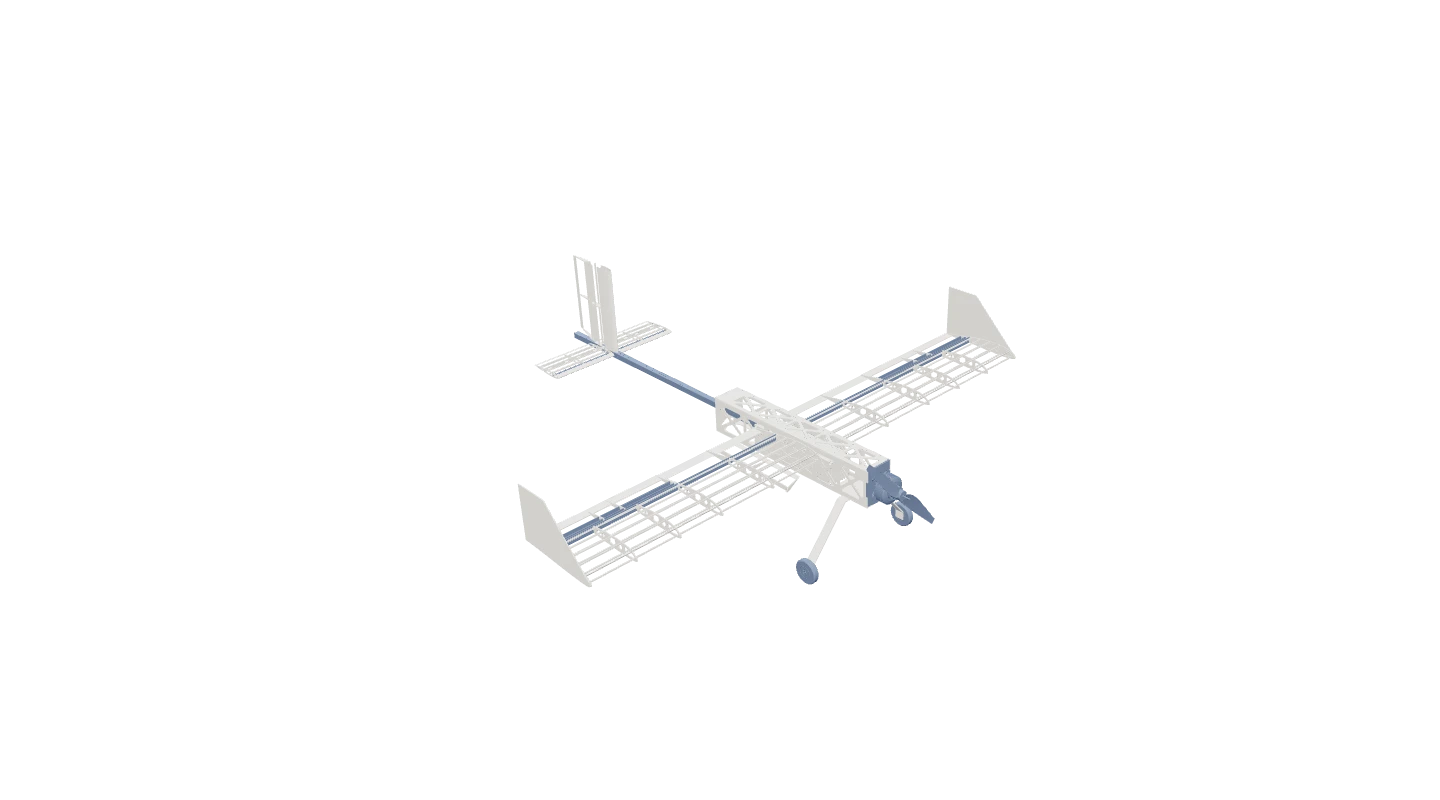
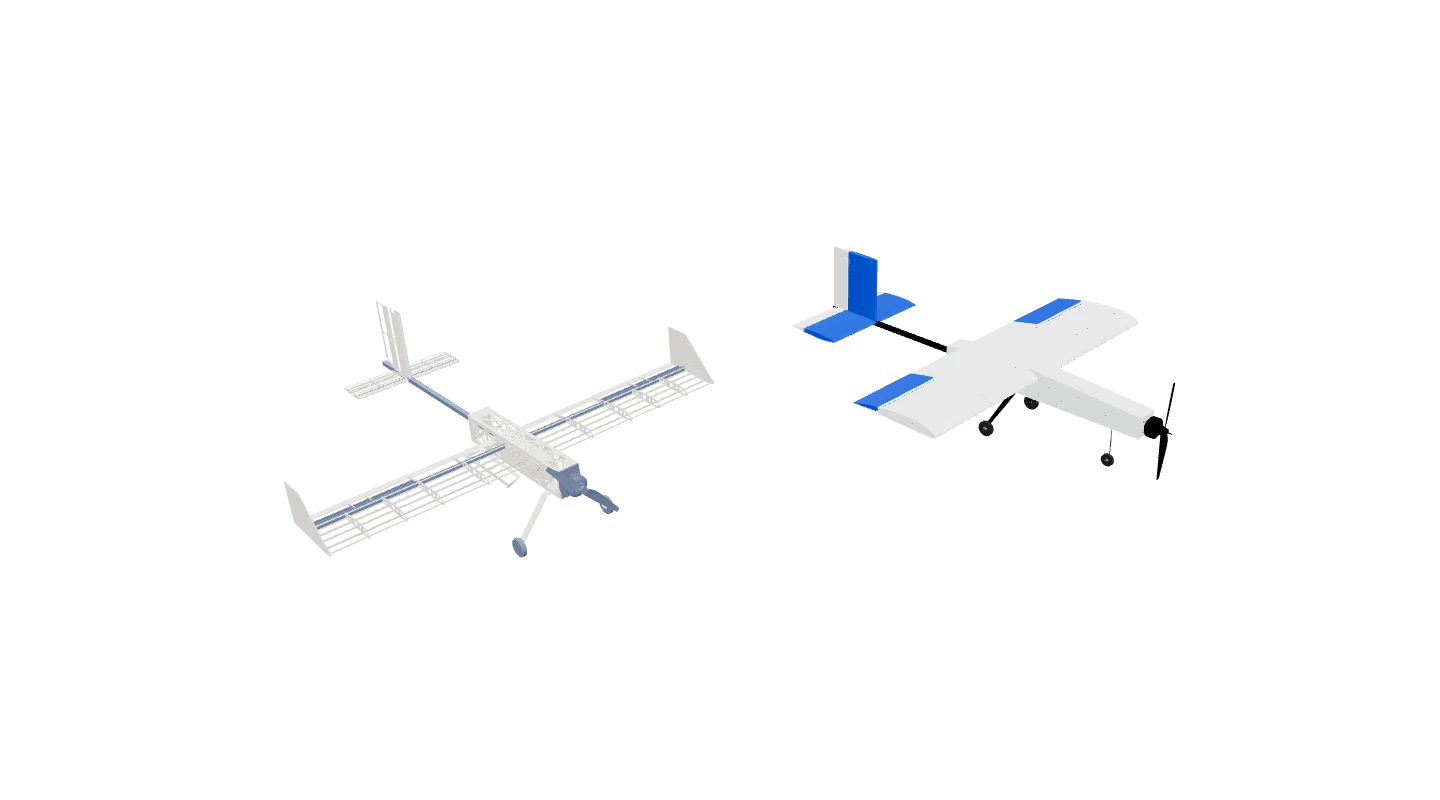
Coordinate both aircraft entrances and qualify CAD fit evidence

Changed region(s): [[0.1875, 0.3125, 0.8125, 0.7188], [0.25, 0.375, 0.3125, 0.5]]

diff --git a/assets/v2-skylabs-fleet.js b/assets/v2-skylabs-fleet.js
@@ -5,9 +5,9 @@
  const stage=root.querySelector('.fleet-stage'),track=root.querySelector('.fleet-track'),canvas=root.querySelector('canvas'),status=root.querySelector('.fleet-status');
  const title=root.querySelector('[data-fleet-title]'),caption=root.querySelector('[data-fleet-caption]'),bar=root.querySelector('.fleet-progress');
  const reduced=matchMedia('(prefers-reduced-motion: reduce)');
- let renderer,scene,camera,plane,mechanism,sensor,line,frame=0,loading=false,ready=false,active=false,failed=false,progress=0;
+ let renderer,scene,camera,plane,trainer,mechanism,sensor,line,frame=0,loading=false,ready=false,active=false,failed=false,progress=0;
  const clamp=x=>Math.max(0,Math.min(1,x)),smooth=x=>{x=clamp(x);return x*x*(3-2*x);};
- function staticCaption(){title.textContent='01 / Competition airframe';caption.textContent='Taildragger configuration · supplied CAD';bar.style.transform='scaleX(0)';}
+ function staticCaption(){title.textContent='01 / Trainer + competition';caption.textContent='Trainer and competition taildragger · source assemblies';bar.style.transform='scaleX(0)';}
  const allowed=()=>!reduced.matches&&!navigator.connection?.saveData&&innerHeight>=560;
  const script=(url,test)=>new Promise((resolve,reject)=>{if(test())return resolve();let el=[...document.scripts].find(s=>new URL(s.src,location.href).pathname===url);if(!el){el=document.createElement('script');el.src=url;document.head.append(el);}el.addEventListener('load',resolve,{once:true});el.addEventListener('error',reject,{once:true});});
  async function asset(slug){
@@ -28,9 +28,10 @@
   if(!ready)return;progress=clamp(value);const T=THREE,w=stage.clientWidth,h=stage.clientHeight,mobile=w<680;
   renderer.setPixelRatio(Math.min(devicePixelRatio,1.5));if(canvas.width!==Math.round(w*renderer.getPixelRatio())||canvas.height!==Math.round(h*renderer.getPixelRatio()))renderer.setSize(w,h,false);
   camera.aspect=w/h;camera.position.set(mobile?2.3:2.1,1.6,mobile?3.3:2.7);camera.lookAt(0,0,0);camera.updateProjectionMatrix();
-  const arrival=smooth(progress/.22),inspect=smooth((progress-.34)/.25),deploy=smooth((progress-.65)/.35);
-  plane.position.set((1-arrival)*-1.8-inspect*2.8,(1-arrival)*.55,0);plane.rotation.set(.07,-.18+(1-arrival)*.2,(1-arrival)*-.18);plane.scale.setScalar(mobile?.68:.95);plane.visible=inspect<.995;
-  mechanism.position.set((1-inspect)*3,0,0);mechanism.rotation.set(.02,-.25,.12);mechanism.scale.setScalar(mobile?3.1:4.3);mechanism.visible=inspect>.005;
+  const arrival=smooth((progress-.03)/.23),trainerArrival=smooth(progress/.23),inspect=smooth((progress-.38)/.23),deploy=smooth((progress-.65)/.35);
+  plane.position.set((mobile?0:-.65)+(1-arrival)*-2.2-inspect*2.8,(mobile?-.38:-.08)+(1-arrival)*.55,mobile?0:.45);plane.rotation.set(.07,-.18+(1-arrival)*.2,(1-arrival)*-.18);plane.scale.setScalar(mobile?.57:.75);plane.visible=inspect<.995;
+  trainer.position.set((mobile?0:.65)+(1-trainerArrival)*-2.2+inspect*3,(mobile?.48:.15)+(1-trainerArrival)*.55,mobile?0:-.5);trainer.rotation.set(.07,-.18+(1-trainerArrival)*.2,(1-trainerArrival)*-.18);trainer.scale.setScalar(mobile?.50:.68);trainer.visible=inspect<.995;
+  mechanism.position.set(0,-(1-inspect)*1.0,0);mechanism.rotation.set(.02,-.25,.12);mechanism.scale.setScalar((mobile?3.1:4.3)*(.5+inspect*.5));mechanism.visible=inspect>.02;
   // Sensor-only separation illustrates the requested deployment direction. No
   // joints, actuator stroke or installation transform were supplied in STEP.
   sensor.position.copy(sensor.userData.rest);sensor.position.z-=deploy*.16;
@@ -40,8 +41,8 @@
   points.push(new T.Vector3(-.05,-.045,.07),new T.Vector3(0,-.045,.05-deploy*.16));
   line.geometry.dispose();line.geometry=new T.BufferGeometry().setFromPoints(points);line.visible=deploy>0;
   renderer.render(scene,camera);bar.style.transform='scaleX('+progress+')';
-  title.textContent=progress<.45?'01 / Competition airframe':progress<.65?'02 / Sensor carriage':'03 / Routing study';
-  caption.textContent=progress<.45?'Taildragger configuration · supplied CAD':progress<.65?'Separate assembly · installation fit remains unresolved':'Illustrative separation · deployment path needs revision';
+  title.textContent=progress<.45?'01 / Trainer + competition':progress<.65?'02 / Sensor carriage':'03 / Routing study';
+  caption.textContent=progress<.45?'Trainer and competition taildragger · source assemblies':progress<.65?'Separate assembly · installation fit remains unresolved':'Illustrative separation · actual release motion unconfirmed';
   root.dataset.fleetProgress=progress.toFixed(4);
  }
  function tick(){frame=0;if(!ready||!active||document.hidden||!allowed())return;const r=track.getBoundingClientRect();draw(clamp((110-r.top)/Math.max(1,track.offsetHeight-stage.offsetHeight)));}
@@ -50,13 +51,14 @@
   try{
    if(!window.DecompressionStream)throw Error('Static view');
    await script('/assets/vendor/three.min.js',()=>!!window.THREE);await script('/assets/vendor/GLTFLoader.js',()=>!!window.THREE.GLTFLoader);
-   const models=await Promise.all([asset('skylabs-competition'),asset('skylabs-mechanism')]);const T=THREE;
-   scene=new T.Scene();camera=new T.PerspectiveCamera(37,1,.01,50);renderer=new T.WebGLRenderer({canvas,alpha:true,antialias:true,preserveDrawingBuffer:true});renderer.outputEncoding=T.sRGBEncoding;renderer.toneMapping=T.ACESFilmicToneMapping;renderer.toneMappingExposure=.8;
+   await script('/assets/v3-aircraft-scene.js',()=>!!window.V3AircraftScene);
+   const models=await Promise.all([asset('skylabs-competition'),asset('skylabs-mechanism'),window.V3AircraftScene.load(window.THREE)]);const T=THREE;
+   scene=new T.Scene();camera=new T.PerspectiveCamera(37,1,.2,20);renderer=new T.WebGLRenderer({canvas,alpha:true,antialias:true,preserveDrawingBuffer:true});renderer.outputEncoding=T.sRGBEncoding;renderer.toneMapping=T.ACESFilmicToneMapping;renderer.toneMappingExposure=.8;
    scene.add(new T.HemisphereLight(0xd9eaff,0x566173,.85));const key=new T.DirectionalLight(0xffffff,1.4);key.position.set(2,4,3);scene.add(key);const rim=new T.DirectionalLight(0x72a9ff,.8);rim.position.set(-3,1,-2);scene.add(rim);
-   plane=wrap(models[0],true);mechanism=wrap(models[1],false);scene.add(plane,mechanism);
+   plane=wrap(models[0],true);mechanism=wrap(models[1],false);trainer=new T.Group();trainer.name='fleet-trainer';plane.name='fleet-competition';const sourceTrainer=models[2].group;trainer.add(sourceTrainer);sourceTrainer.traverse(node=>{if(node.userData.category==='covering')node.traverse(mesh=>{if(!mesh.isMesh)return;const materials=(Array.isArray(mesh.material)?mesh.material:[mesh.material]).map(material=>{const copy=material.clone();copy.polygonOffset=true;copy.polygonOffsetFactor=-2;copy.polygonOffsetUnits=-2;return copy;});mesh.material=materials.length===1?materials[0]:materials;});});sourceTrainer.updateMatrixWorld(true);sourceTrainer.position.sub(new T.Box3().setFromObject(sourceTrainer).getCenter(new T.Vector3()));scene.add(plane,trainer,mechanism);
    models[1].traverse(n=>{if(n.userData.sourceName==='Sensor V2, 300mm Length')sensor=n;});if(!sensor)throw Error('Sensor occurrence absent');sensor.userData.rest=sensor.position.clone();
    line=new T.Line(new T.BufferGeometry(),new T.LineBasicMaterial({color:0x8bbaff}));models[1].add(line);ready=true;loading=false;
-   if(allowed()){root.dataset.fleetState='ready';status.textContent='Scroll to inspect the airframe and sensor concept.';draw(0);queue();}else{root.dataset.fleetState='static';}
+   if(allowed()){root.dataset.fleetState='ready';status.textContent='Scroll to fly in both aircraft and inspect the sensor concept.';draw(0);queue();}else{root.dataset.fleetState='static';}
   }catch(error){failed=true;loading=false;ready=false;renderer?.dispose();root.dataset.fleetState='failed';staticCaption();status.textContent='The 3D view is unavailable. The CAD preview and assembly notes remain below.';}
  }
  const observer=new IntersectionObserver(entries=>{active=entries[0].isIntersecting;if(active){start();queue();}else{cancelAnimationFrame(frame);frame=0;}},{rootMargin:'400px 0px'});observer.observe(track);

diff --git a/v2/projects/skylabs/index.html b/v2/projects/skylabs/index.html
@@ -66,9 +66,9 @@
 
     <section class="skylabs-fleet" id="aircraft" data-skylabs-fleet data-fleet-state="static" aria-labelledby="fleet-heading">
       <header class="skylabs-fleet-header"><div><span class="fleet-eyebrow">Skylabs / Aircraft</span><h2 id="fleet-heading">From trainer to competition.</h2><p>A taildragger airframe, a dedicated sensor carriage and a towline returning around the main carbon spar. Explore the supplied assemblies and the deployment concept.</p></div><a href="/v2/projects/#skylabs-aircraft">Explore the trainer ↗</a></header>
-      <div class="fleet-track"><div class="fleet-stage"><img class="fleet-poster" src="/assets/models/aircraft/skylabs-competition/poster.webp" width="1440" height="720" alt="Competition aircraft rendered from supplied CAD, with twin wing endplates, main wheels and tail structure" loading="lazy"><canvas aria-hidden="true"></canvas><div class="fleet-caption"><strong data-fleet-title>01 / Competition airframe</strong><span data-fleet-caption>Taildragger configuration · supplied CAD</span></div><div class="fleet-progress" aria-hidden="true"></div></div></div>
+      <div class="fleet-track"><div class="fleet-stage"><img class="fleet-poster" src="/assets/models/aircraft/skylabs-competition/poster.webp" width="1440" height="720" alt="Trainer and competition aircraft together, rendered from the existing trainer asset and supplied competition CAD" loading="lazy"><canvas aria-hidden="true"></canvas><div class="fleet-caption"><strong data-fleet-title>01 / Trainer + competition</strong><span data-fleet-caption>Trainer and competition taildragger · source assemblies</span></div><div class="fleet-progress" aria-hidden="true"></div></div></div>
       <p class="fleet-status" role="status">Static CAD preview. Scroll animation is available with motion enabled.</p>
-      <div class="fleet-notes"><div><h3>One avionics platform, two airframes.</h3><p>The trainer remains the reference for provisional specifications and ESC selection. Competition-specific electrical and performance values are not yet confirmed.</p><p><a href="https://a360.co/4ioq3Ov" target="_blank" rel="noreferrer">Aircraft CAD ↗</a> · <a href="https://a360.co/3WXbmec" target="_blank" rel="noreferrer">Sensor mechanism CAD ↗</a></p></div><div><h3>Integration still needs a fit check.</h3><p>The carriage is 100 mm wide; the fuselage interior is 94 mm across at the parallel walls. An internal installation in that orientation would interfere. A downward sensor path also intersects the carriage in the supplied geometry. The animation is an exploded routing study, pending a valid release path, mount and spar-loop location.</p><p>The aircraft export also includes an earlier payload, a displaced rudder and no identified tailwheel. The preview preserves those source positions.</p></div></div>
+      <div class="fleet-notes"><div><h3>One avionics platform, two airframes.</h3><p>The trainer remains the reference for provisional specifications and ESC selection. Competition-specific electrical and performance values are not yet confirmed.</p><p><a href="https://a360.co/4ioq3Ov" target="_blank" rel="noreferrer">Aircraft CAD ↗</a> · <a href="https://a360.co/3WXbmec" target="_blank" rel="noreferrer">Sensor mechanism CAD ↗</a></p></div><div><h3>Integration still needs a fit check.</h3><p>The mechanism’s outer panel envelope is 100 mm wide; the spacing between the parallel fuselage walls is 94 mm. If installed internally with its long axis fore/aft, that assumed orientation gives a potential 6 mm envelope conflict requiring a solid fit check. No mounting transform is supplied. The illustrative downward sensor motion crosses other parts; it is not the mechanism’s confirmed motion. The animation is an exploded routing study pending mounting, release and spar-loop details.</p><p>The aircraft export also includes an earlier payload, a displaced rudder and no identified tailwheel. The preview preserves those source positions.</p></div></div>
     </section>
 
     <section class="project-interactive v2-hardware-section" id="explore" aria-labelledby="skylabs-assembly-title"><span id="assembly" class="v2-anchor-alias" aria-hidden="true"></span><div class="project-interactive-inner">

diff --git a/docs/skylabs-competition-integration.md b/docs/skylabs-competition-integration.md
@@ -1,107 +1,152 @@
-# Competition aircraft and sensor study
+# Skylabs fleet integration — unpublished review
 
-Unpublished implementation on the existing v2 Skylabs case page at
-`/v2/projects/skylabs/#aircraft`. The accepted trainer animation remains at
-`/v2/projects/#skylabs-aircraft`, with its runtime and assets unchanged. Both
-aircraft are linked; they do not share a simultaneous fly-in.
+The v2 Skylabs case page (`/v2/projects/skylabs/#aircraft`) now flies the actual
+trainer and competition aircraft into **one shared scene together**. Desktop
+uses a diagonal pair; mobile stacks them with separate silhouettes. Both move
+out as the separate sensor assembly enters. Scroll reverses every pose exactly.
+The existing trainer-only Projects story, its assets and its controller are
+unchanged. Its existing loader supplies an independent trainer instance here.
 
-## Imported sources
+## Sources and fidelity
 
-The download-host configuration is now enforced and both Library STEP files
-were successfully materialized with their Library identity/version attributes.
+Both Library files downloaded successfully with identity/version attributes.
 
 | File | Bytes | SHA-256 |
 | --- | ---: | --- |
 | Proposal_Assembly.step | 14,150,868 | 21028145146887c3709c1ab7d2f4e8a85aa0c7a3d4e6aa551691c18ff82fa695 |
 | V2 Assembly.step.step | 757,051 | 2057073d35cac58b3d254028ff1bfc1e79cd587797c888a8f5648ed0df7d315b |
 
-Each model manifest preserves every original occurrence (134 aircraft, 11
-mechanism), name, source-space bounds and transform. Tessellation uses 0.2 mm
-absolute / 0.15 rad angular deflection. Lossless accessor/mesh deduplication
-retains component hierarchy. No geometry is invented to complete the aircraft.
-The supplied aircraft includes two empty source nodes (`Wing_leading_edge(Mirror)` and `VT_Rib3`); export keeps their
-hierarchy but they cannot generate visible triangles. CAD source colours are
-replaced with a restrained presentation palette; geometry is unchanged.
+The manifests preserve all 134 aircraft and 11 mechanism occurrences, names,
+source-space transforms and bounds. Tessellation is 0.2 mm absolute / 0.15 rad
+angular deflection, with lossless geometry deduplication. Original hierarchy
+is retained. Two aircraft nodes have no exportable geometry:
+`Wing_leading_edge(Mirror)` and `VT_Rib3`. No replacement competition geometry,
+covering or tailwheel is invented. A restrained presentation palette replaces
+source colours. The existing trainer retains its accepted authored covering and
+reconstructed wheels, as documented in its pre-existing manifest.
 
-Web delivery uses gzip GLB: 4,227,609 bytes aircraft, 178,695 bytes mechanism.
-Uncompressed GLBs and provenance manifests are retained for inspection and
-reproduction. `poster.webp` is rendered from the same geometry and camera.
+The competition still contains the earlier `V2TP-Tainer Full Assembly` payload.
+Its `Rudder_Assembly` is near the wing/fuselage rather than the aft vertical tail.
+These saved source positions are preserved. No tailwheel is identified; the
+competition is called a taildragger per the user, without claiming a verified
+ground-contact pose. Trainer specs and ESC remain provisional for competition.
+
+## Measured dimensions versus assumptions
+
+Both STEP geometric contexts explicitly use millimetres: aircraft context
+`#187584`, mechanism context `#15303`, each `LENGTH_UNIT` /
+`SI_UNIT(.MILLI.,.METRE.)`. OpenCascade inspection records mm; exported glTF uses
+metres. The dimension comparison below is **not an installed solid fit check**.
+
+| Source occurrence | Source bounds relevant to width (mm) |
+| --- | --- |
+| Aircraft `0:1:1:1/0:1:1:1:5`, `Fuselage_Wall` | X = 235.18418 … 238.18418 |
+| Aircraft `0:1:1:1/0:1:1:1:4`, `Fuselage_Wall` | X = 332.18418 … 335.18418 |
+| Mechanism `0:1:1:1/0:1:1:1:1`, `Left Panel` | Y = −4.7 … 5 |
+| Mechanism `0:1:1:1/0:1:1:1:2`, `Right Panel` | Y = −95 … −85.3 |
+| Mechanism `0:1:1:1/0:1:1:1:5`, `Cart V2` | Y = −90.720124 … −0.720124 |
+
+The fuselage wall envelope is 100 mm outside, with two 3 mm walls and a
+94 mm gap between their inner envelope planes: 332.18418 − 238.18418.
+The **whole mechanism's panel envelope**, not `Cart V2` itself, is 100 mm wide:
+5 − (−95). `Cart V2` is 90 mm wide. Calling the cart itself 100 mm wide was
+imprecise and has been corrected in the page and report.
+
+The separate mechanism's overall envelope is 360 × 100 × 111.215001 mm.
+Only **if** its long source X axis is installed fore/aft along aircraft Y, its
+width Y across aircraft X, and it lies between those wall envelopes, does the
+comparison suggest a 6 mm envelope conflict (3 mm per side if centred).
+That orientation and placement are inferred, not supplied or confirmed.
+Cutouts, another orientation, a different station or an external mount may change
+the result. No authoritative assembly-to-aircraft transform is present, and no
+installed Boolean collision test was performed. This is a fit question, **not
+proof of a design flaw**.
+
+## Motion and routing evidence
+
+`clearance-screen.json` records OpenCascade BRep Boolean common volumes in the
+mechanism's own supplied assembly coordinates, against all other leaf parts,
+with a >0.01 mm³ reporting threshold. All ten mechanism leaf occurrences pass
+`BRepCheck_Analyzer.IsValid()` in the current source.
+
+At the untouched source pose, the sensor overlaps `Right Panel` by approximately
+16.823 mm³ and each of four `Bearing Guide` occurrences by approximately
+1.875 mm³. These are source-model overlaps; intended contact/tolerances are
+unknown and no operational fault is inferred from them.
+
+For the animation, an **illustrative sensor-only translation along source −Z**
+was sampled at 0, 10, 20, 40, 80, 120 and 160 mm. At 10 mm it intersects `Cart V2`
+by approximately 3186.605 mm³. At 80 mm it intersects both side panels; the final
+two samples have no reported intersections. This proves intersections only for
+that assumed path, not for the actual mechanism's unknown deployment motion.
+It is not a continuous sweep, joint solver, actuator-stroke calculation or
+installed aircraft test. The page therefore calls the animation an exploded
+routing study and explicitly states the actual release motion is unconfirmed.
+
+The blue towline is a continuous schematic loop and lead to the moving sensor.
+Its loop station is illustrative, not measured mounting hardware. The user asks
+for a loop around the main carbon spar; a continuous main carbon spar through
+the fuselage has not been positively identified. The exported `Wing_spar` halves
+stop at the fuselage sides. `CF_Tube_20x20mm` runs aft longitudinally and is not
+silently assumed to be the main wing spar. A confirmed mount transform, actual
+release motion, loop station, attachment and cable dimensions are needed for
+installed routing/clearance. No structural or flight-safety certification is made.
+
+## Runtime, visual review and tests
+
+One new renderer draws both aircraft and the mechanism. Native scroll drives
+finite poses; there is no scroll interception or idle loop. Assets begin near
+the section. Offscreen and hidden drawing stops. Reduced motion, Save Data,
+short viewports, failed downloads, no JavaScript and WebGL loss retain the
+rendered fleet poster and readable notes. The geometry is scaled for composition;
+this is not a dimension-comparison view.
+
+Gzip delivery: competition 4,227,609 bytes; mechanism 178,695 bytes; existing
+trainer meshopt transport 5,402,507 bytes (approximately 9.81 MB combined, before
+helpers). The existing trainer loader supplies its original GLB fallback if
+meshopt is unavailable. This is a meaningful loading cost, not a zero-cost reuse
+across separate documents. Static preferences skip all three model requests.
+
+Actual desktop 1440×1000 and mobile 390×844 frames were reviewed at arrival,
+paired flight, transition, mechanism and separated-sensor poses. The pair is
+visible together and keeps separate silhouettes. A recovered visual issue was
+trainer covering depth flicker; this scene now uses a tighter camera depth range
+and cloned covering-material polygon offsets, without changing existing trainer
+assets or its original story. An initially empty mobile transition was corrected
+by bringing the mechanism up into view while the aircraft leave. The poster was regenerated from the corrected
+shared scene. The source competition remains skeletal because covering is absent.
+
+Browser evidence lives in `.codex-temp/fleet/`. Tests:
+
+* `node scripts/verify-v2-skylabs-fleet.cjs`: new-source hashes/gzip parity and
+  145 nodes; both aircraft present in one frame; desktop/mobile captures; exact
+  reversible pose and canvas; native scroll both ways; offscreen idle; reduced
+  motion; Save Data; short viewport; failed download; context loss; no-JS poster.
+* `CHROMIUM_EXECUTABLE=/usr/bin/chromium node scripts/verify-v2-skylabs.cjs`:
+  existing board switching/picking, pending races, responsive layout, context
+  loss and no-JS navigation.
+* `node scripts/verify-v2-projects-aircraft.cjs`: existing trainer/collection
+  source checks. No trainer asset/controller changes.
+* JS syntax and `git -c core.whitespace=cr-at-eol diff --check`; original HTML
+  CRLF preserved.
 
 Rebuild with Python 3.12, cadquery-ocp 7.9.3.1.1 and compatible VTK 9.6:
+`python3 scripts/build-skylabs-competition.py /path/to/cad-source`.
+The geometry checker is `scripts/check-skylabs-mechanism.py`; regenerate posters
+with `node scripts/render-skylabs-competition.cjs` and a server on port 8080.
 
-```
-python3 scripts/build-skylabs-competition.py /path/to/cad-source
-python3 scripts/check-skylabs-mechanism.py '/path/to/V2 Assembly.step.step'
-```
+## Scope and remaining questions
 
-The exporter reuses the repository's existing CAD inspection and lossless
-compaction utilities. No `.agents` directory or `AGENTS.md` was present in this
-checkout. The earlier partial scaffold commits were absent; this implementation
-supersedes their overview-only content rather than applying outdated blocker text.
+The earlier overview-only scaffold patch was provided, but its commits were not
+in this checkout. Its intended source references, trainer preservation,
+competition/taildragger description, provisional trainer/ESC specs, integration
+notes and verification are covered here. Its historical access blocker is
+superseded by verified imports. No separate stale `integration.json` is added;
+the model manifests and this report hold the current provenance and findings.
+The unrelated launch commit is absent and not claimed as included.
 
-## Mechanical findings and unresolved integration
-
-* Aircraft source spans approximately 1833.632 mm, is 1634 mm long and 617.5 mm
-  high in its saved coordinates. These are model extents, not verified flight
-  specifications. ESC and other specs remain provisionally the trainer's, as
-  requested; no new current rating or performance claim is made.
-* Fuselage outer width is 100 mm, with two 3 mm walls: the parallel interior is
-  94 mm. The separate mechanism is 360 × 100 × 111.215 mm in its own axes.
-  With its length aligned fore/aft, its 100 mm width exceeds this internal
-  space by 6 mm (3 mm each side if centred). An exterior installation or revised
-  mount might differ; no authoritative assembly-to-aircraft transform exists.
-* The proposal still contains `V2TP-Tainer Full Assembly` (three earlier payload
-  segments). The new carriage is not silently superimposed on this occupied bay.
-* The separate mechanism has source intersections at rest: sensor/right panel
-  about 16.823 mm³, plus 1.875 mm³ against each of four bearing guides. These may
-  be CAD overlaps or intended contacts, and require designer review.
-* A proposed straight downward sensor-only motion is **not a validated release**.
-  At 10 mm travel its intersection with Cart V2 is about 3186.605 mm³; at 80 mm
-  travel it intersects both side panels. See `clearance-screen.json` for seven
-  sampled OpenCascade solid Boolean checks from 0 to 160 mm. No collision is
-  detected at the final two samples, which does not establish a clear sweep.
-* The animation therefore shows a separate exploded routing study, explicitly
-  labelled as needing revision. The 160 mm illustrative separation is not a
-  specified actuator stroke. Reversing scroll restores the exact source pose.
-* The blue towline is a conceptual closed loop followed by a continuous lead to
-  the moving sensor. Its guide station is illustrative. A continuous main carbon
-  spar through the fuselage is not positively identified in these exports.
-  `Wing_spar` halves stop at the fuselage sides; `CF_Tube_20x20mm` runs aft along
-  the fuselage and is not assumed to be the requested main wing spar. A verified
-  loop station, line diameter, minimum bend radius, attachment and release path
-  are needed before claiming installed routing or cable clearance.
-* `Rudder_Assembly` is near the wing/fuselage region, while the vertical tail is
-  roughly 1 m aft. The source position is preserved, not corrected by guesswork.
-* Main wheels exist, but no tailwheel/strut is identified. The design is described
-  as a taildragger per the user; no fabricated tailwheel or ground-contact pose
-  is shown. No skin/film surfaces are invented.
-
-This is a geometry and presentation review, not structural or flight-safety
-certification. Installed deployment/retraction remains blocked by the supplied
-geometry and missing mount/kinematic data, not by file access.
-
-## Runtime and review
-
-Native scroll controls the finite flight/inspection/separation poses in both
-directions. No scroll interception or continuous idle animation. Models start
-near the section; offscreen/hidden drawing pauses. Reduced motion, Save Data,
-short viewports, failed fetch/decompression/WebGL and context loss retain the
-CAD poster and readable notes. Preference changes during loading retain the
-static view. Canvas is decorative; the heading, caption, issues and source links
-remain accessible independently. Mobile framing uses the same actual geometry.
-
-Run the local server on 8080 and `node scripts/verify-v2-skylabs-fleet.cjs`.
-
-Validation completed in Chromium with SwiftShader: desktop 1440×1000 and mobile
-390×844 visual inspection; all 145 occurrence nodes and gzip/hash parity; exact
-pose and canvas reversal; native scrolling in both directions; offscreen idle;
-reduced motion; Save Data; short viewport; failed model request; context loss;
-and no-JavaScript poster. No page errors in the fleet suite. Existing
-`verify-v2-skylabs.cjs` passed board switching, picking, mobile, stale loads,
-context loss and no-JS navigation. `verify-v2-projects-aircraft.cjs` passed the
-existing trainer/collection source checks. Whitespace check uses `cr-at-eol`
-because the existing HTML retains its original CRLF endings. Browser evidence
-is in `.codex-temp/fleet/` (local review captures, not publication).
-
-No push, deployment or public update was performed. The unrelated launch commit
-mentioned in prior work is not present here and has not been claimed as included.
+Installed, mechanically valid deployment/retraction remains unresolved because
+mounting and kinematics are unknown. That action is pending CAD clarification,
+not denied and not executed with an uncertain outcome. Both aircraft fly in
+coordinately now; no source geometry is moved to guess a final installation.
+No push, deployment or publication has been performed.
